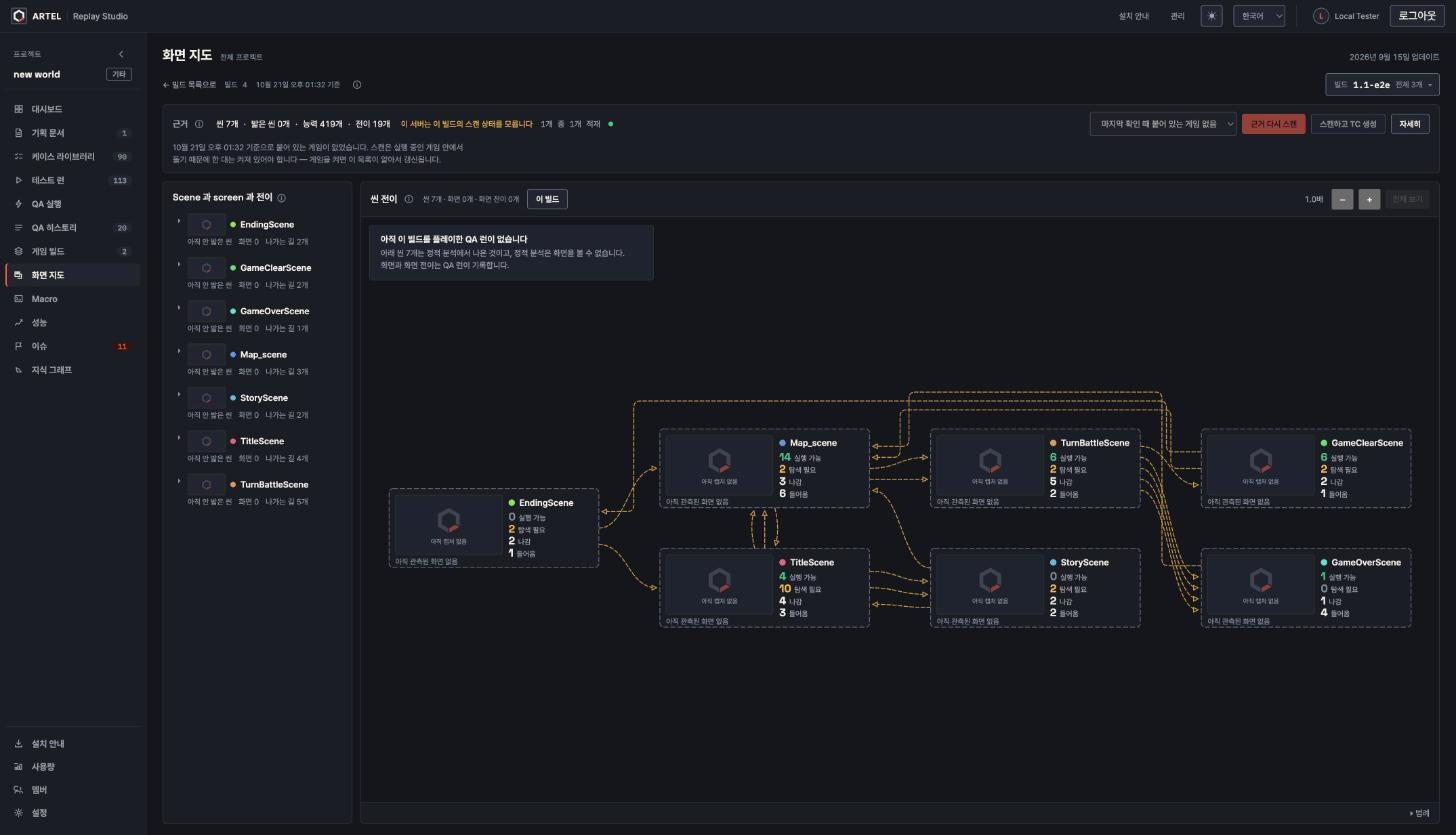
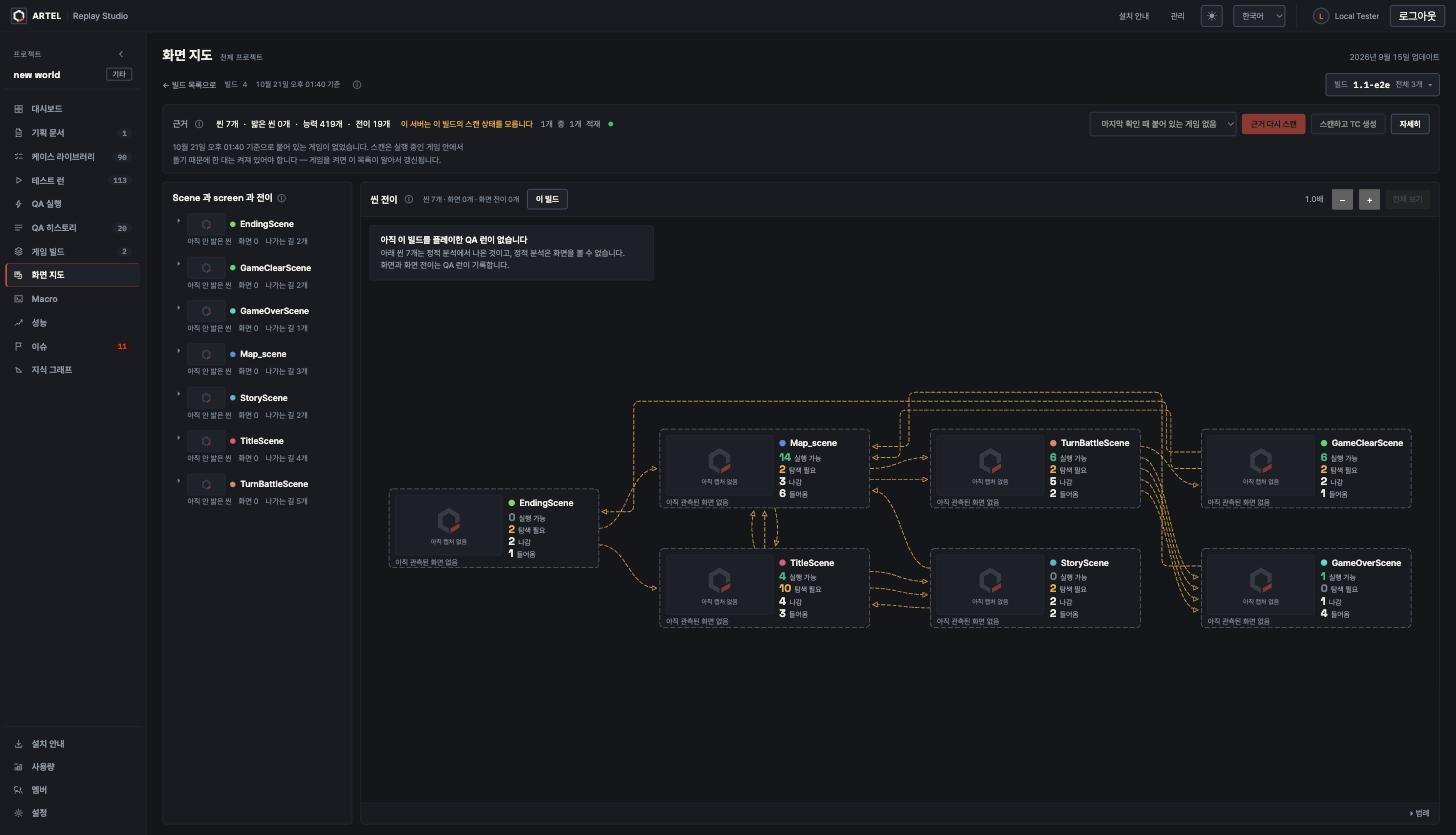
fix(content-map): 캡처 대체 그림을 ARTEL 심볼 원본 모양으로
404 로고 도형 대신 artel-logo-symbol-transparent-dark-bg.png 를 따서 만든 심볼(오른쪽 아래가 열린 육각 띠 +
코랄 평행사변형)을 쓴다. 원본과 겹침 98.5% · 97.4%.

ARTEL-1172

diff --git a/src/contentMap/CapturePlaceholder.tsx b/src/contentMap/CapturePlaceholder.tsx
@@ -1,4 +1,4 @@
-import { MARK_ACCENT, MARK_BODY } from '../brand/artelMark'
+import { SYMBOL_ACCENT, SYMBOL_BODY } from '../brand/artelMark'
 
 /**
  * 캡처가 없을 때 그 자리에 서는 서비스 대체 그림(ARTEL-1172). 회색 상자에 글 한 줄이던 자리가 지도 위에 수십 개 서면
@@ -23,8 +23,8 @@ export function CapturePlaceholder({
     <g className="sm-placeholder">
       <rect height={height} rx="4" width={width} x={x} y={y} />
       <g transform={`translate(${x + width / 2 - size / 2} ${y + height / 2 - size / 2 - 7}) scale(${scale})`}>
-        <path className="sm-placeholder-mark" d={MARK_BODY} />
-        <path className="sm-placeholder-accent" d={MARK_ACCENT} />
+        <path className="sm-placeholder-mark" d={SYMBOL_BODY} />
+        <path className="sm-placeholder-accent" d={SYMBOL_ACCENT} />
       </g>
       <text textAnchor="middle" x={x + width / 2} y={y + height / 2 + size / 2 + 8}>
         {label}
@@ -38,8 +38,8 @@ export function CapturePlaceholderThumb({ wide = false }: { wide?: boolean }) {
   return (
     <span aria-hidden="true" className={`cm-tree-thumb cm-tree-thumb--placeholder${wide ? ' cm-tree-thumb--scene' : ''}`}>
       <svg viewBox="0 0 64 64">
-        <path className="sm-placeholder-mark" d={MARK_BODY} />
-        <path className="sm-placeholder-accent" d={MARK_ACCENT} />
+        <path className="sm-placeholder-mark" d={SYMBOL_BODY} />
+        <path className="sm-placeholder-accent" d={SYMBOL_ACCENT} />
       </svg>
     </span>
   )

diff --git a/src/brand/artelMark.ts b/src/brand/artelMark.ts
@@ -6,3 +6,11 @@
 export const MARK_BODY =
   'M 57.28 45.10 L 57.28 17.40 L 32.00 2.80 L 6.72 17.40 L 6.72 46.60 L 30.70 60.45 L 30.70 50.05 L 15.72 41.40 L 15.72 22.60 L 32.00 13.20 L 48.28 22.60 L 48.28 39.90 Z'
 export const MARK_ACCENT = 'M 33.30 50.05 L 33.30 60.45 L 55.99 47.35 L 46.99 42.15 Z'
+
+/**
+ * ARTEL 심볼(64 × 64) — `artel-logo-symbol-transparent-dark-bg.png` 를 따서 만든 것(ARTEL-1172). 오른쪽 아래가 열린
+ * 육각 띠와, 그 열린 자리 아래의 코랄 평행사변형. 캡처 대체 그림이 이것을 쓴다.
+ */
+export const SYMBOL_BODY =
+  'M 32 2 L 57 16.9 L 57 33.6 L 46.7 39.6 L 46.7 23.3 L 32 14.4 L 17.3 23.3 L 17.3 41.6 L 32 50.3 L 32 62 L 7 47 L 7 16.9 Z'
+export const SYMBOL_ACCENT = 'M 57 37.9 L 57 48.1 L 35.9 60.9 L 35.9 50.3 Z'

diff --git a/src/contentMap/contentMap.css b/src/contentMap/contentMap.css
@@ -1015,11 +1015,11 @@
 }
 .sm-placeholder-mark {
   fill: var(--color-text-muted);
-  opacity: 0.28;
+  opacity: 0.36;
 }
 .sm-placeholder-accent {
   fill: var(--color-brand-accent);
-  opacity: 0.45;
+  opacity: 0.62;
 }
 .sm-placeholder text {
   fill: var(--color-text-muted);
